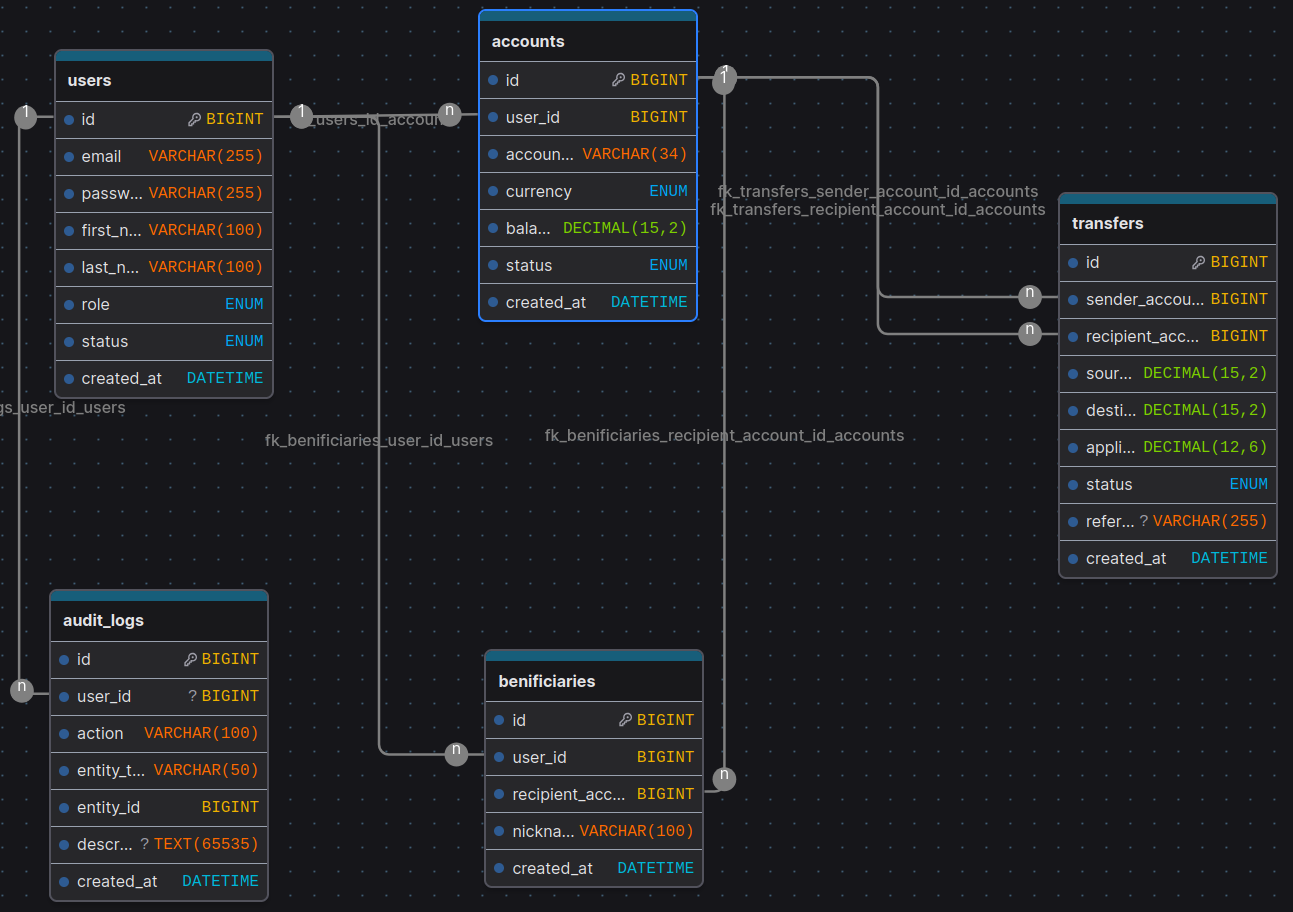
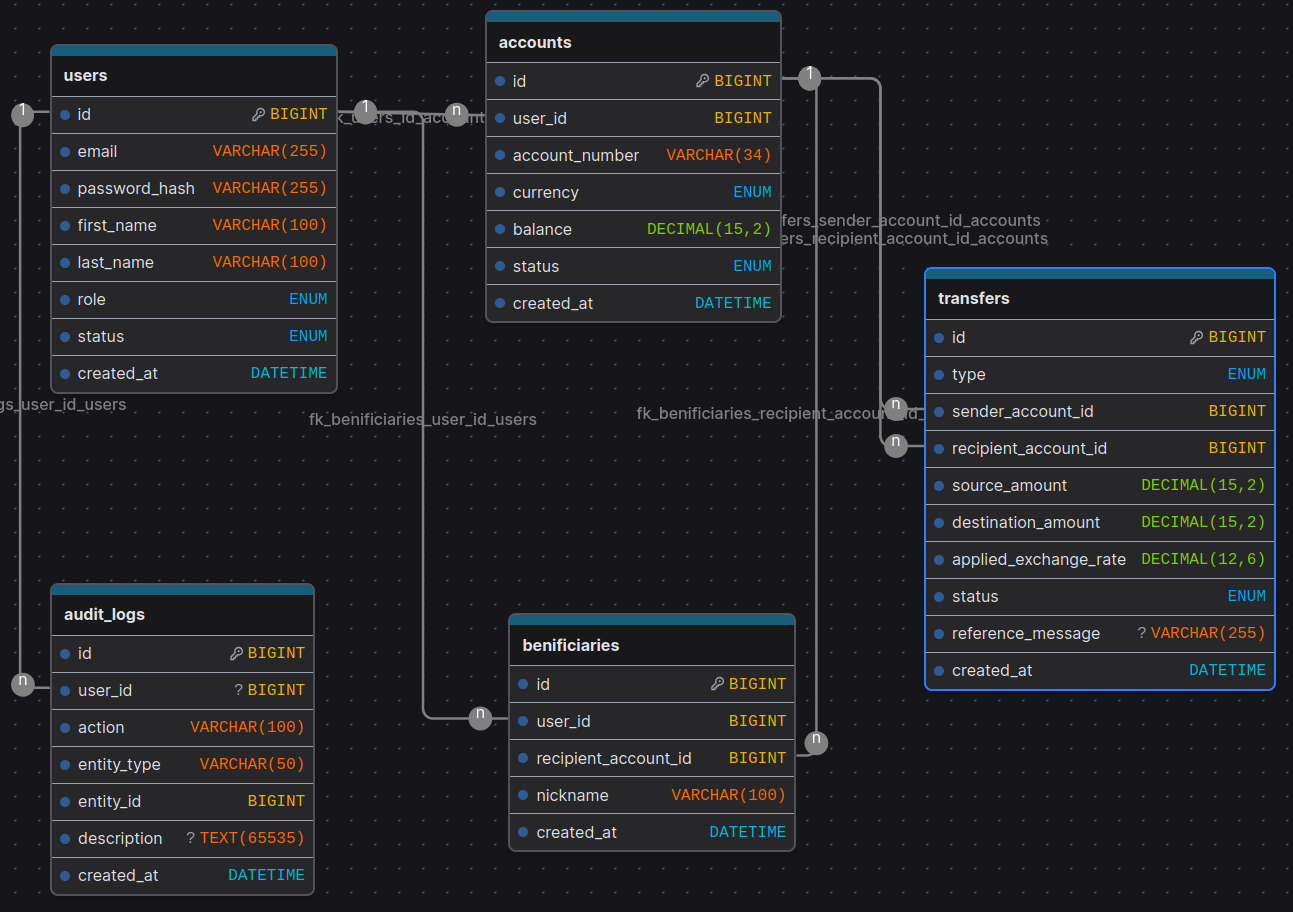
Change ER photo and link to it

diff --git a/README.md b/README.md
@@ -18,7 +18,7 @@ Náš projekt **FinCore** predstavuje pohodlnú mobilnú bankovú aplikáciu na 
 
 ![ER diagrama](/ideaAssets/ER.png)
 
-https://www.drawdb.app/share/N7GAsrwRUG11upP4EZe-2vAR
+https://www.drawdb.app/share/sIPTUYD92ue8I1FXJntbfnkj
 
 ## UML diagrama:
 
